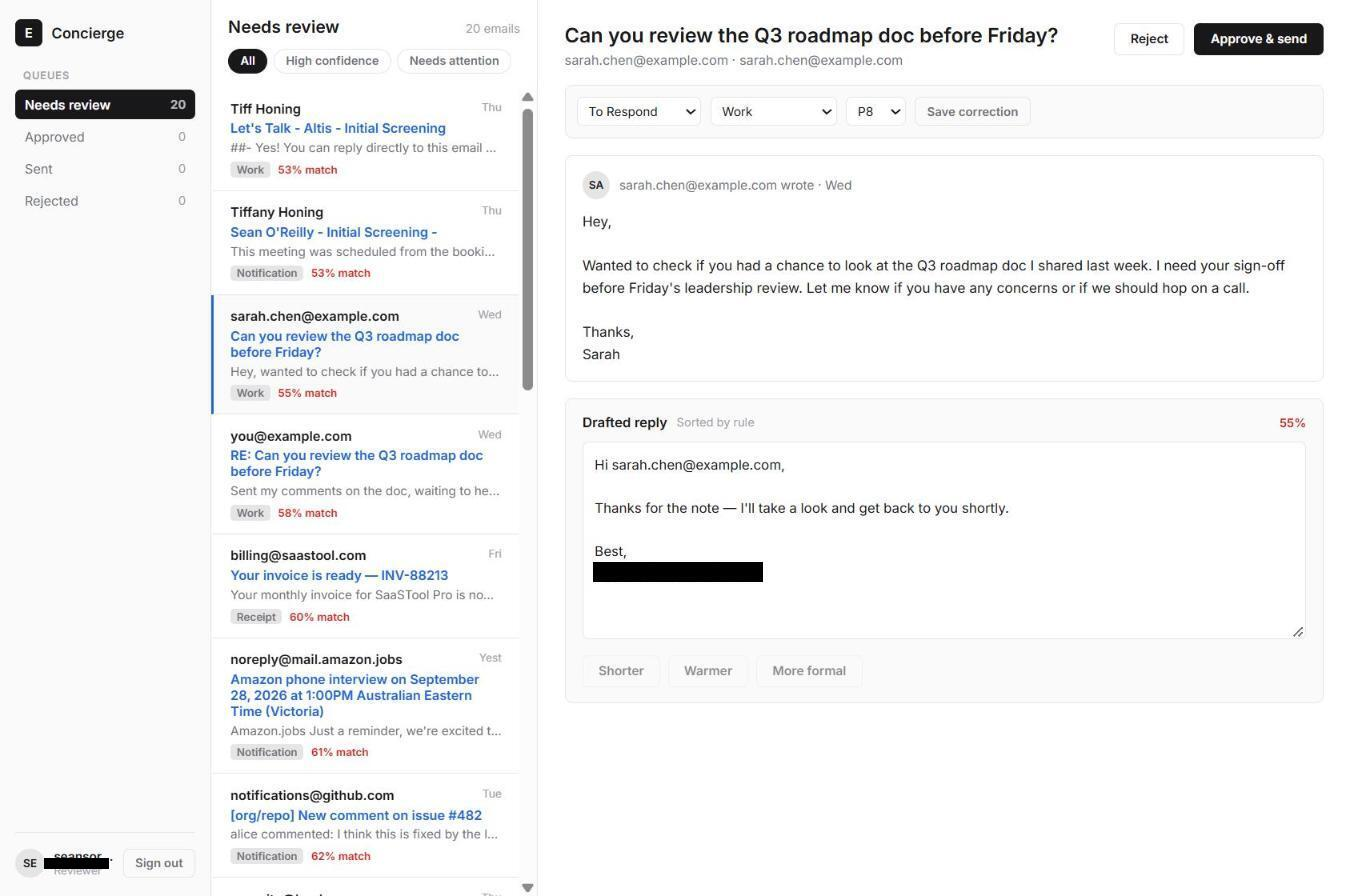
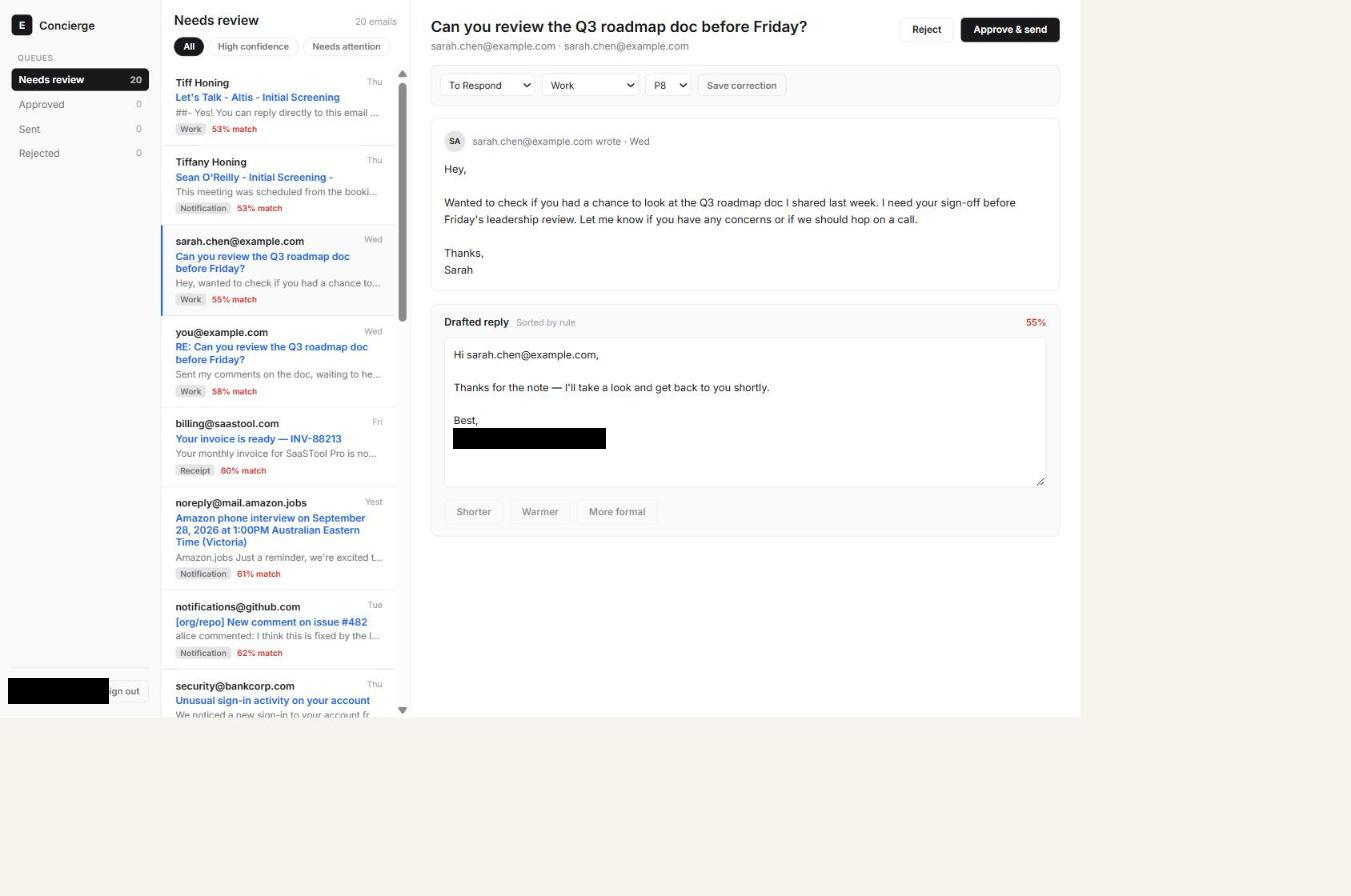
Recapture UI screenshots with fully synthetic sign-off data
Both fixture emails were already fictional; the real leak was the
drafted-reply signature, generated client-side from the logged-in
Cognito user's identity (web/src/ReviewQueue.tsx, defaultDraftReply())
rather than from the database. Recaptured against fresh fixtures and
redacted the sign-off line plus the reviewer-avatar corner in both
shots; swapped the invoice screenshot for an Awaiting Reply fixture.

diff --git a/video/TREATMENT.md b/video/TREATMENT.md
@@ -18,15 +18,19 @@ burned in and synced to VO timing.
 
 - `assets/final/review-queue-detail.jpg` — three-panel review queue: queue list
   (left), email thread (center), drafted-reply panel with `To Respond / Work /
-  P8` classification dropdowns and a 55% confidence badge (right). Captured
-  live against the deployed Amplify app, logged in via the real Cognito
-  session, using synthetic fixture data (`pnpm seed`) — no real inbox content.
-  The reviewer-account initials and the drafted reply's real sign-off email
-  were redacted (black bars) before saving.
-- `assets/final/review-queue-invoice.jpg` — same layout, different fixture
-  (`billing@saastool.com` invoice), classified `Done / Receipt / P3`,
-  labeled "Sorted by rule" instead of "Classified by Jev" — good second shot
-  to show the taxonomy has range and more than one classification path.
+  P8` classification dropdowns and a 55% confidence badge (right), fixture
+  `sarah.chen@example.com`. Captured live against the deployed Amplify app,
+  logged in via the real Cognito session, using synthetic fixture data
+  (`pnpm seed`) — all 13 fixtures use fictional senders, no real inbox content
+  anywhere. One real element still had to be redacted: the drafted-reply
+  panel's sign-off is generated client-side from the *logged-in Cognito
+  user's* identity (`web/src/ReviewQueue.tsx`, `defaultDraftReply()`), not
+  from the database — it shows the real account regardless of which fixture
+  is selected. That line, and the reviewer-avatar corner (bottom-left), are
+  redacted (black bars) in both shots.
+- `assets/final/review-queue-awaitingreply.jpg` — same layout, different
+  fixture (`you@example.com`), classified `Awaiting Reply / Work / P5` — good
+  second shot to show a different taxonomy value.
 - `assets/raw/` — unredacted originals, kept for reference only. **Never use
   these directly in the video** — they contain the real sign-off email and
   reviewer account name. Always render from `assets/final/`.
@@ -47,7 +51,7 @@ DynamoDB table and are easy to click into by accident.
 
 **Visual:** Full-bleed `review-queue-detail.jpg`, slow Ken Burns push-in
 starting wide (full three-panel view) and settling on the drafted-reply panel
-with its confidence badge. Cut to `review-queue-invoice.jpg` at ~0:14 (quick
+with its confidence badge. Cut to `review-queue-awaitingreply.jpg` at ~0:14 (quick
 0.6s crossfade) to show a second, differently-classified email — signals
 "this handles variety," not one canned example.
 
@@ -211,7 +215,7 @@ cut)*
   frame range from silence-gaps or fixed offsets in the script — don't hand-
   guess beat durations and hope the VO fits, record first, time second.
 - **Screenshots:** import `assets/final/review-queue-detail.jpg` and
-  `assets/final/review-queue-invoice.jpg` as `<Img>` with a `<Sequence>` +
+  `assets/final/review-queue-awaitingreply.jpg` as `<Img>` with a `<Sequence>` +
   spring-based `scale`/`translate` for the Ken Burns push-in — no external Ken
   Burns library needed for a two-shot cold open.
 
